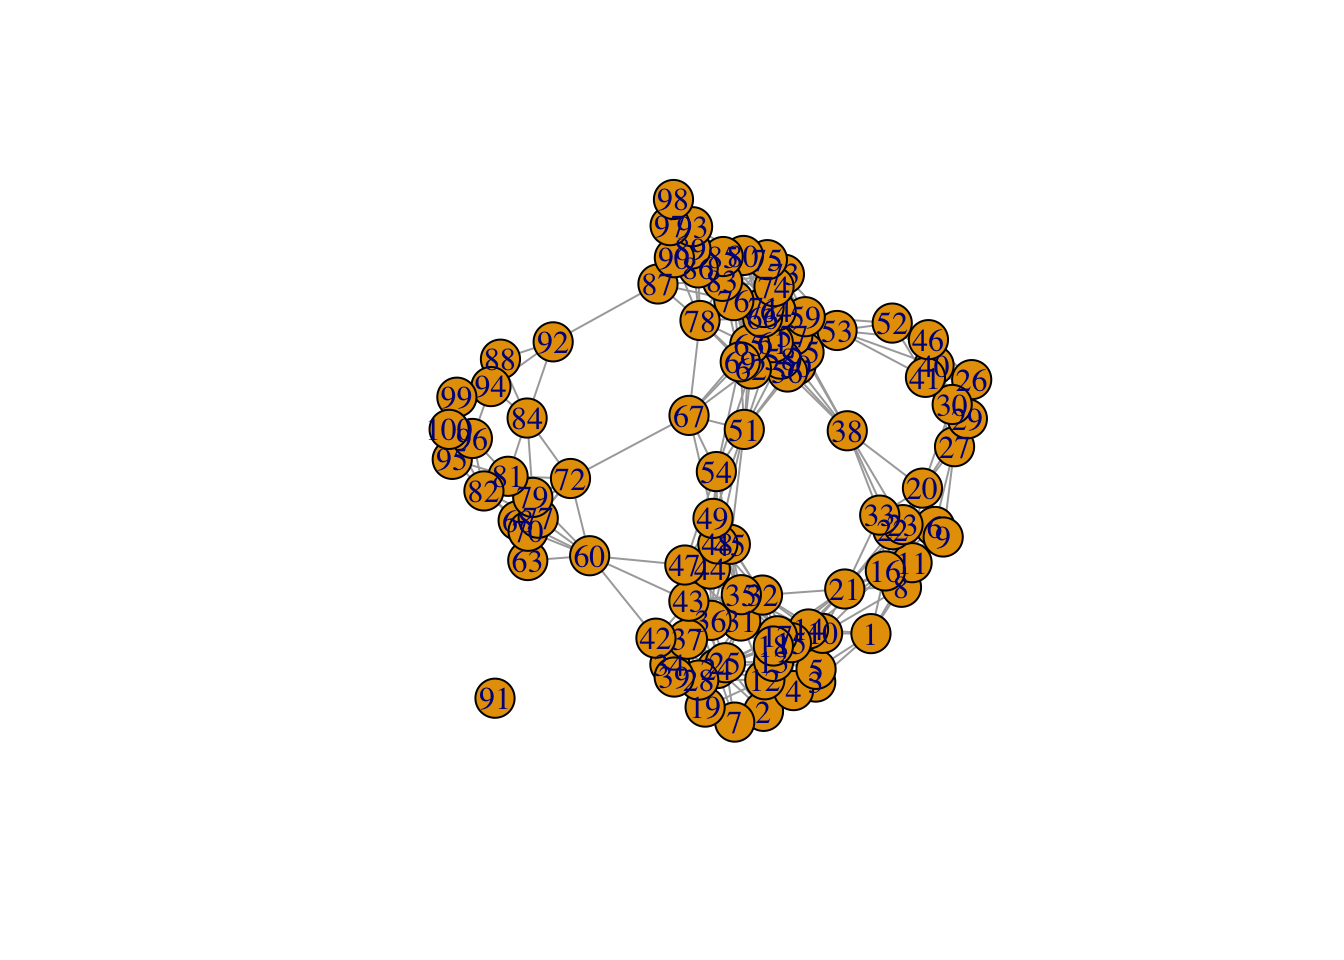
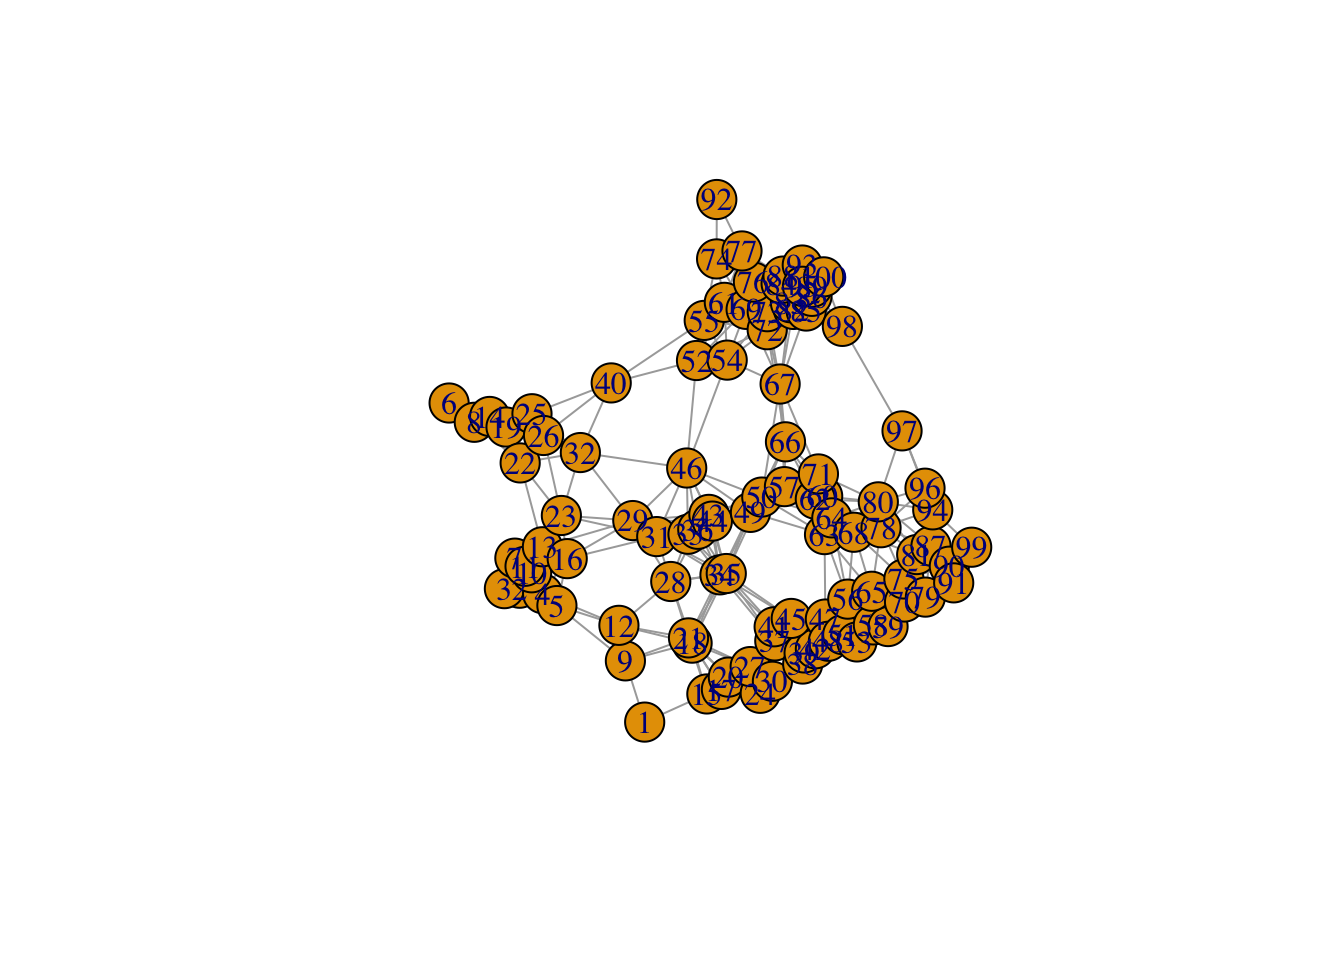
fiexed data

Changed region(s): [[0.3125, 0.1875, 0.75, 0.7812], [0.3438, 0.6875, 0.4062, 0.75]]

diff --git a/docs/posts/A8-NetworkData/index.html b/docs/posts/A8-NetworkData/index.html
@@ -253,8 +253,8 @@ Attaching package: 'igraph'</code></pre>
 <div class="sourceCode cell-code" id="cb7"><pre class="sourceCode r code-with-copy"><code class="sourceCode r"><span id="cb7-1"><a href="#cb7-1" aria-hidden="true" tabindex="-1"></a>g</span></code><button title="Copy to Clipboard" class="code-copy-button"><i class="bi"></i></button></pre></div>
 </details>
 <div class="cell-output cell-output-stdout">
-<pre><code>IGRAPH 7abdab3 U--- 10 2 -- 
-+ edges from 7abdab3:
+<pre><code>IGRAPH ca2b351 U--- 10 2 -- 
++ edges from ca2b351:
 [1] 1--2 1--5</code></pre>
 </div>
 </div>
@@ -278,7 +278,7 @@ Note
 <div class="sourceCode cell-code" id="cb9"><pre class="sourceCode r code-with-copy"><code class="sourceCode r"><span id="cb9-1"><a href="#cb9-1" aria-hidden="true" tabindex="-1"></a><span class="fu">summary</span>(g)</span></code><button title="Copy to Clipboard" class="code-copy-button"><i class="bi"></i></button></pre></div>
 </details>
 <div class="cell-output cell-output-stdout">
-<pre><code>IGRAPH 7abdab3 U--- 10 2 -- </code></pre>
+<pre><code>IGRAPH ca2b351 U--- 10 2 -- </code></pre>
 </div>
 </div>
 <p>The same function <code>make_graph</code> can create some notable graphs by just specifying their name. For example you can create the graph that represents the social network of Zachary’s karate club, that shows the friendship between 34 members of a karate club at a US university in the 1970s:</p>
@@ -343,9 +343,9 @@ Note
 <span id="cb16-3"><a href="#cb16-3" aria-hidden="true" tabindex="-1"></a>g</span></code><button title="Copy to Clipboard" class="code-copy-button"><i class="bi"></i></button></pre></div>
 </details>
 <div class="cell-output cell-output-stdout">
-<pre><code>IGRAPH 6984188 U--- 40 86 -- Zachary
+<pre><code>IGRAPH 8279327 U--- 40 86 -- Zachary
 + attr: name (g/c)
-+ edges from 6984188:
++ edges from 8279327:
  [1]  1-- 2  1-- 3  1-- 4  1-- 5  1-- 6  1-- 7  1-- 8  1-- 9  1--11  1--12
 [11]  1--13  1--14  1--18  1--20  1--22  1--32  2-- 3  2-- 4  2-- 8  2--14
 [21]  2--18  2--20  2--22  2--31  3-- 4  3-- 8  3--28  3--29  3--33  3--10
@@ -430,7 +430,7 @@ Note
 <span id="cb25-2"><a href="#cb25-2" aria-hidden="true" tabindex="-1"></a><span class="fu">summary</span>(graph1)</span></code><button title="Copy to Clipboard" class="code-copy-button"><i class="bi"></i></button></pre></div>
 </details>
 <div class="cell-output cell-output-stdout">
-<pre><code>IGRAPH e6afde7 U--- 127 126 -- Tree
+<pre><code>IGRAPH 799932d U--- 127 126 -- Tree
 + attr: name (g/c), children (g/n), mode (g/c)</code></pre>
 </div>
 <details class="code-fold">
@@ -469,7 +469,7 @@ Note
 <span id="cb31-2"><a href="#cb31-2" aria-hidden="true" tabindex="-1"></a><span class="fu">summary</span>(graph1)</span></code><button title="Copy to Clipboard" class="code-copy-button"><i class="bi"></i></button></pre></div>
 </details>
 <div class="cell-output cell-output-stdout">
-<pre><code>IGRAPH 599b363 U--- 100 553 -- Geometric random graph
+<pre><code>IGRAPH 520d57d U--- 100 501 -- Geometric random graph
 + attr: name (g/c), radius (g/n), torus (g/l)</code></pre>
 </div>
 <details class="code-fold">
@@ -539,7 +539,7 @@ Note
 <span id="cb40-4"><a href="#cb40-4" aria-hidden="true" tabindex="-1"></a><span class="fu">summary</span>(g)</span></code><button title="Copy to Clipboard" class="code-copy-button"><i class="bi"></i></button></pre></div>
 </details>
 <div class="cell-output cell-output-stdout">
-<pre><code>IGRAPH 36746b1 UN-- 7 9 -- 
+<pre><code>IGRAPH 9862b5c UN-- 7 9 -- 
 + attr: name (v/c), age (v/n), gender (v/c), is_formal (e/l)</code></pre>
 </div>
 </div>
@@ -602,7 +602,7 @@ Note
 <span id="cb51-2"><a href="#cb51-2" aria-hidden="true" tabindex="-1"></a><span class="fu">V</span>(g)</span></code><button title="Copy to Clipboard" class="code-copy-button"><i class="bi"></i></button></pre></div>
 </details>
 <div class="cell-output cell-output-stdout">
-<pre><code>+ 7/7 vertices, named, from 36746b1:
+<pre><code>+ 7/7 vertices, named, from 9862b5c:
 [1] Alejandra Bruno     Carmina   Frank     Dennis    Esther    George   </code></pre>
 </div>
 </div>
@@ -746,7 +746,7 @@ Note
 <span id="cb75-2"><a href="#cb75-2" aria-hidden="true" tabindex="-1"></a>seq</span></code><button title="Copy to Clipboard" class="code-copy-button"><i class="bi"></i></button></pre></div>
 </details>
 <div class="cell-output cell-output-stdout">
-<pre><code>+ 3/10 vertices, from 33cddb3:
+<pre><code>+ 3/10 vertices, from b3c6a0f:
 [1] 2 3 7</code></pre>
 </div>
 </div>
@@ -757,7 +757,7 @@ Note
 <span id="cb77-2"><a href="#cb77-2" aria-hidden="true" tabindex="-1"></a>seq</span></code><button title="Copy to Clipboard" class="code-copy-button"><i class="bi"></i></button></pre></div>
 </details>
 <div class="cell-output cell-output-stdout">
-<pre><code>+ 2/10 vertices, from 33cddb3:
+<pre><code>+ 2/10 vertices, from b3c6a0f:
 [1] 2 7</code></pre>
 </div>
 </div>
@@ -860,7 +860,7 @@ Note
 <div class="sourceCode cell-code" id="cb87"><pre class="sourceCode r code-with-copy"><code class="sourceCode r"><span id="cb87-1"><a href="#cb87-1" aria-hidden="true" tabindex="-1"></a><span class="fu">E</span>(g)[<span class="fu">.from</span>(<span class="dv">3</span>)]</span></code><button title="Copy to Clipboard" class="code-copy-button"><i class="bi"></i></button></pre></div>
 </details>
 <div class="cell-output cell-output-stdout">
-<pre><code>+ 4/9 edges from 36746b1 (vertex names):
+<pre><code>+ 4/9 edges from 9862b5c (vertex names):
 [1] Alejandra--Carmina Carmina  --Frank   Carmina  --Dennis  Carmina  --Esther </code></pre>
 </div>
 </div>
@@ -871,7 +871,7 @@ Note
 <div class="sourceCode cell-code" id="cb89"><pre class="sourceCode r code-with-copy"><code class="sourceCode r"><span id="cb89-1"><a href="#cb89-1" aria-hidden="true" tabindex="-1"></a><span class="fu">E</span>(g)[<span class="fu">.from</span>(<span class="st">"Carmina"</span>)]</span></code><button title="Copy to Clipboard" class="code-copy-button"><i class="bi"></i></button></pre></div>
 </details>
 <div class="cell-output cell-output-stdout">
-<pre><code>+ 4/9 edges from 36746b1 (vertex names):
+<pre><code>+ 4/9 edges from 9862b5c (vertex names):
 [1] Alejandra--Carmina Carmina  --Frank   Carmina  --Dennis  Carmina  --Esther </code></pre>
 </div>
 </div>
@@ -883,7 +883,7 @@ Note
 <div class="sourceCode cell-code" id="cb91"><pre class="sourceCode r code-with-copy"><code class="sourceCode r"><span id="cb91-1"><a href="#cb91-1" aria-hidden="true" tabindex="-1"></a><span class="fu">E</span>(g) [ <span class="dv">3</span><span class="sc">:</span><span class="dv">5</span> <span class="sc">%--%</span> <span class="dv">5</span><span class="sc">:</span><span class="dv">6</span> ]</span></code><button title="Copy to Clipboard" class="code-copy-button"><i class="bi"></i></button></pre></div>
 </details>
 <div class="cell-output cell-output-stdout">
-<pre><code>+ 3/9 edges from 36746b1 (vertex names):
+<pre><code>+ 3/9 edges from 9862b5c (vertex names):
 [1] Carmina--Dennis Carmina--Esther Dennis --Esther</code></pre>
 </div>
 </div>
@@ -920,7 +920,7 @@ Note
 <div class="sourceCode cell-code" id="cb98"><pre class="sourceCode r code-with-copy"><code class="sourceCode r"><span id="cb98-1"><a href="#cb98-1" aria-hidden="true" tabindex="-1"></a><span class="fu">E</span>(g)[men <span class="sc">%--%</span> women]</span></code><button title="Copy to Clipboard" class="code-copy-button"><i class="bi"></i></button></pre></div>
 </details>
 <div class="cell-output cell-output-stdout">
-<pre><code>+ 5/9 edges from 36746b1 (vertex names):
+<pre><code>+ 5/9 edges from 9862b5c (vertex names):
 [1] Alejandra--Bruno  Alejandra--Frank  Carmina  --Frank  Carmina  --Dennis
 [5] Dennis   --Esther</code></pre>
 </div>
@@ -1284,8 +1284,8 @@ George            .     .       .     1      1      .      .</code></pre>
 <summary>Code</summary>
 <div class="sourceCode cell-code" id="cb111"><pre class="sourceCode r code-with-copy"><code class="sourceCode r"><span id="cb111-1"><a href="#cb111-1" aria-hidden="true" tabindex="-1"></a><span class="fu">library</span>(readxl)</span>
 <span id="cb111-2"><a href="#cb111-2" aria-hidden="true" tabindex="-1"></a></span>
-<span id="cb111-3"><a href="#cb111-3" aria-hidden="true" tabindex="-1"></a>people<span class="ot">&lt;-</span><span class="fu">read_xlsx</span>(<span class="st">"Networks.xlsx"</span>, <span class="at">sheet =</span> <span class="st">"People"</span>)</span>
-<span id="cb111-4"><a href="#cb111-4" aria-hidden="true" tabindex="-1"></a>relations<span class="ot">&lt;-</span><span class="fu">read_xlsx</span>(<span class="st">"Networks.xlsx"</span>, <span class="at">sheet =</span><span class="st">"Relations"</span>)</span>
+<span id="cb111-3"><a href="#cb111-3" aria-hidden="true" tabindex="-1"></a>people<span class="ot">&lt;-</span><span class="fu">read_xlsx</span>(<span class="st">"Networksfixed.xlsx"</span>, <span class="at">sheet =</span> <span class="st">"People"</span>)</span>
+<span id="cb111-4"><a href="#cb111-4" aria-hidden="true" tabindex="-1"></a>relations<span class="ot">&lt;-</span><span class="fu">read_xlsx</span>(<span class="st">"Networksfixed.xlsx"</span>, <span class="at">sheet =</span><span class="st">"Relations"</span>)</span>
 <span id="cb111-5"><a href="#cb111-5" aria-hidden="true" tabindex="-1"></a></span>
 <span id="cb111-6"><a href="#cb111-6" aria-hidden="true" tabindex="-1"></a>g <span class="ot">&lt;-</span> <span class="fu">graph_from_data_frame</span>(relations, <span class="at">directed=</span><span class="cn">FALSE</span>, <span class="at">vertices=</span>people)</span>
 <span id="cb111-7"><a href="#cb111-7" aria-hidden="true" tabindex="-1"></a></span>
@@ -1361,11 +1361,13 @@ Attaching package: 'dplyr'</code></pre>
 <h2 class="anchored" data-anchor-id="assignment">ASSIGNMENT</h2>
 <p>Improve the network above by:</p>
 <ol type="1">
-<li>Updating the data in this <a href="https://vandalsuidaho-my.sharepoint.com/:x:/g/personal/brobison_uidaho_edu/EST0iQkU2mBMlbdN7718fzMBEdwop8eUDfDr16ZpyQNULw?e=ZOBa1g">file</a>.</li>
+<li>Updating the data in this <a href="https://vandalsuidaho-my.sharepoint.com/:f:/g/personal/brobison_uidaho_edu/Eldprmrl8ZhOgAOHGKoRTHYBfa64MS3MH4UWs4tforEZWw?e=wcoLWN">file</a>.</li>
 <li>Coloring the edges according to Advisor / BCB520 attribute.</li>
 <li>Coloring the nodes according to Department.</li>
 <li>Adujsting the labels to improve readability.</li>
 <li>Find the best layout you can for this garbage. What a nightmare.</li>
+<li>Create a network from the edge list data.</li>
+<li>Try making a hierarchical network from the org chart data.</li>
 </ol>
 
 
@@ -2409,8 +2411,8 @@ window.document.addEventListener("DOMContentLoaded", function (event) {
 <span id="cb118-599"><a href="#cb118-599" aria-hidden="true" tabindex="-1"></a><span class="in">```{r}</span></span>
 <span id="cb118-600"><a href="#cb118-600" aria-hidden="true" tabindex="-1"></a><span class="fu">library</span>(readxl)</span>
 <span id="cb118-601"><a href="#cb118-601" aria-hidden="true" tabindex="-1"></a></span>
-<span id="cb118-602"><a href="#cb118-602" aria-hidden="true" tabindex="-1"></a>people<span class="ot">&lt;-</span><span class="fu">read_xlsx</span>(<span class="st">"Networks.xlsx"</span>, <span class="at">sheet =</span> <span class="st">"People"</span>)</span>
-<span id="cb118-603"><a href="#cb118-603" aria-hidden="true" tabindex="-1"></a>relations<span class="ot">&lt;-</span><span class="fu">read_xlsx</span>(<span class="st">"Networks.xlsx"</span>, <span class="at">sheet =</span><span class="st">"Relations"</span>)</span>
+<span id="cb118-602"><a href="#cb118-602" aria-hidden="true" tabindex="-1"></a>people<span class="ot">&lt;-</span><span class="fu">read_xlsx</span>(<span class="st">"Networksfixed.xlsx"</span>, <span class="at">sheet =</span> <span class="st">"People"</span>)</span>
+<span id="cb118-603"><a href="#cb118-603" aria-hidden="true" tabindex="-1"></a>relations<span class="ot">&lt;-</span><span class="fu">read_xlsx</span>(<span class="st">"Networksfixed.xlsx"</span>, <span class="at">sheet =</span><span class="st">"Relations"</span>)</span>
 <span id="cb118-604"><a href="#cb118-604" aria-hidden="true" tabindex="-1"></a></span>
 <span id="cb118-605"><a href="#cb118-605" aria-hidden="true" tabindex="-1"></a>g <span class="ot">&lt;-</span> <span class="fu">graph_from_data_frame</span>(relations, <span class="at">directed=</span><span class="cn">FALSE</span>, <span class="at">vertices=</span>people)</span>
 <span id="cb118-606"><a href="#cb118-606" aria-hidden="true" tabindex="-1"></a></span>
@@ -2456,7 +2458,7 @@ window.document.addEventListener("DOMContentLoaded", function (event) {
 <span id="cb118-648"><a href="#cb118-648" aria-hidden="true" tabindex="-1"></a></span>
 <span id="cb118-649"><a href="#cb118-649" aria-hidden="true" tabindex="-1"></a>Improve the network above by:</span>
 <span id="cb118-650"><a href="#cb118-650" aria-hidden="true" tabindex="-1"></a></span>
-<span id="cb118-651"><a href="#cb118-651" aria-hidden="true" tabindex="-1"></a><span class="ss">1.  </span>Updating the data in this <span class="co">[</span><span class="ot">file</span><span class="co">](https://vandalsuidaho-my.sharepoint.com/:x:/g/personal/brobison_uidaho_edu/EST0iQkU2mBMlbdN7718fzMBEdwop8eUDfDr16ZpyQNULw?e=ZOBa1g)</span>.</span>
+<span id="cb118-651"><a href="#cb118-651" aria-hidden="true" tabindex="-1"></a><span class="ss">1.  </span>Updating the data in this <span class="co">[</span><span class="ot">file</span><span class="co">](https://vandalsuidaho-my.sharepoint.com/:f:/g/personal/brobison_uidaho_edu/Eldprmrl8ZhOgAOHGKoRTHYBfa64MS3MH4UWs4tforEZWw?e=wcoLWN)</span>.</span>
 <span id="cb118-652"><a href="#cb118-652" aria-hidden="true" tabindex="-1"></a><span class="ss">2.  </span>Coloring the edges according to Advisor / BCB520 attribute.</span>
 <span id="cb118-653"><a href="#cb118-653" aria-hidden="true" tabindex="-1"></a><span class="ss">3.  </span>Coloring the nodes according to Department.</span>
 <span id="cb118-654"><a href="#cb118-654" aria-hidden="true" tabindex="-1"></a><span class="ss">4.  </span>Adujsting the labels to improve readability.</span>

diff --git a/docs/index.html b/docs/index.html
@@ -300,7 +300,7 @@ All player statistics are presented within the scope of the selected filters.
 </div>
 </a>
 </div>
-<div class="g-col-1" data-index="1" data-categories="Portfolio,DataViz,Network,iGraph,Assignment" data-listing-date-sort="1744268400000" data-listing-file-modified-sort="1744318315618" data-listing-date-modified-sort="NaN" data-listing-reading-time-sort="44" data-listing-word-count-sort="8750">
+<div class="g-col-1" data-index="1" data-categories="Portfolio,DataViz,Network,iGraph,Assignment" data-listing-date-sort="1744268400000" data-listing-file-modified-sort="1744323202723" data-listing-date-modified-sort="NaN" data-listing-reading-time-sort="44" data-listing-word-count-sort="8750">
 <a href="./posts/A8-NetworkData/index.html" class="quarto-grid-link">
 <div class="quarto-grid-item card h-100 card-left">
 <p class="card-img-top">
